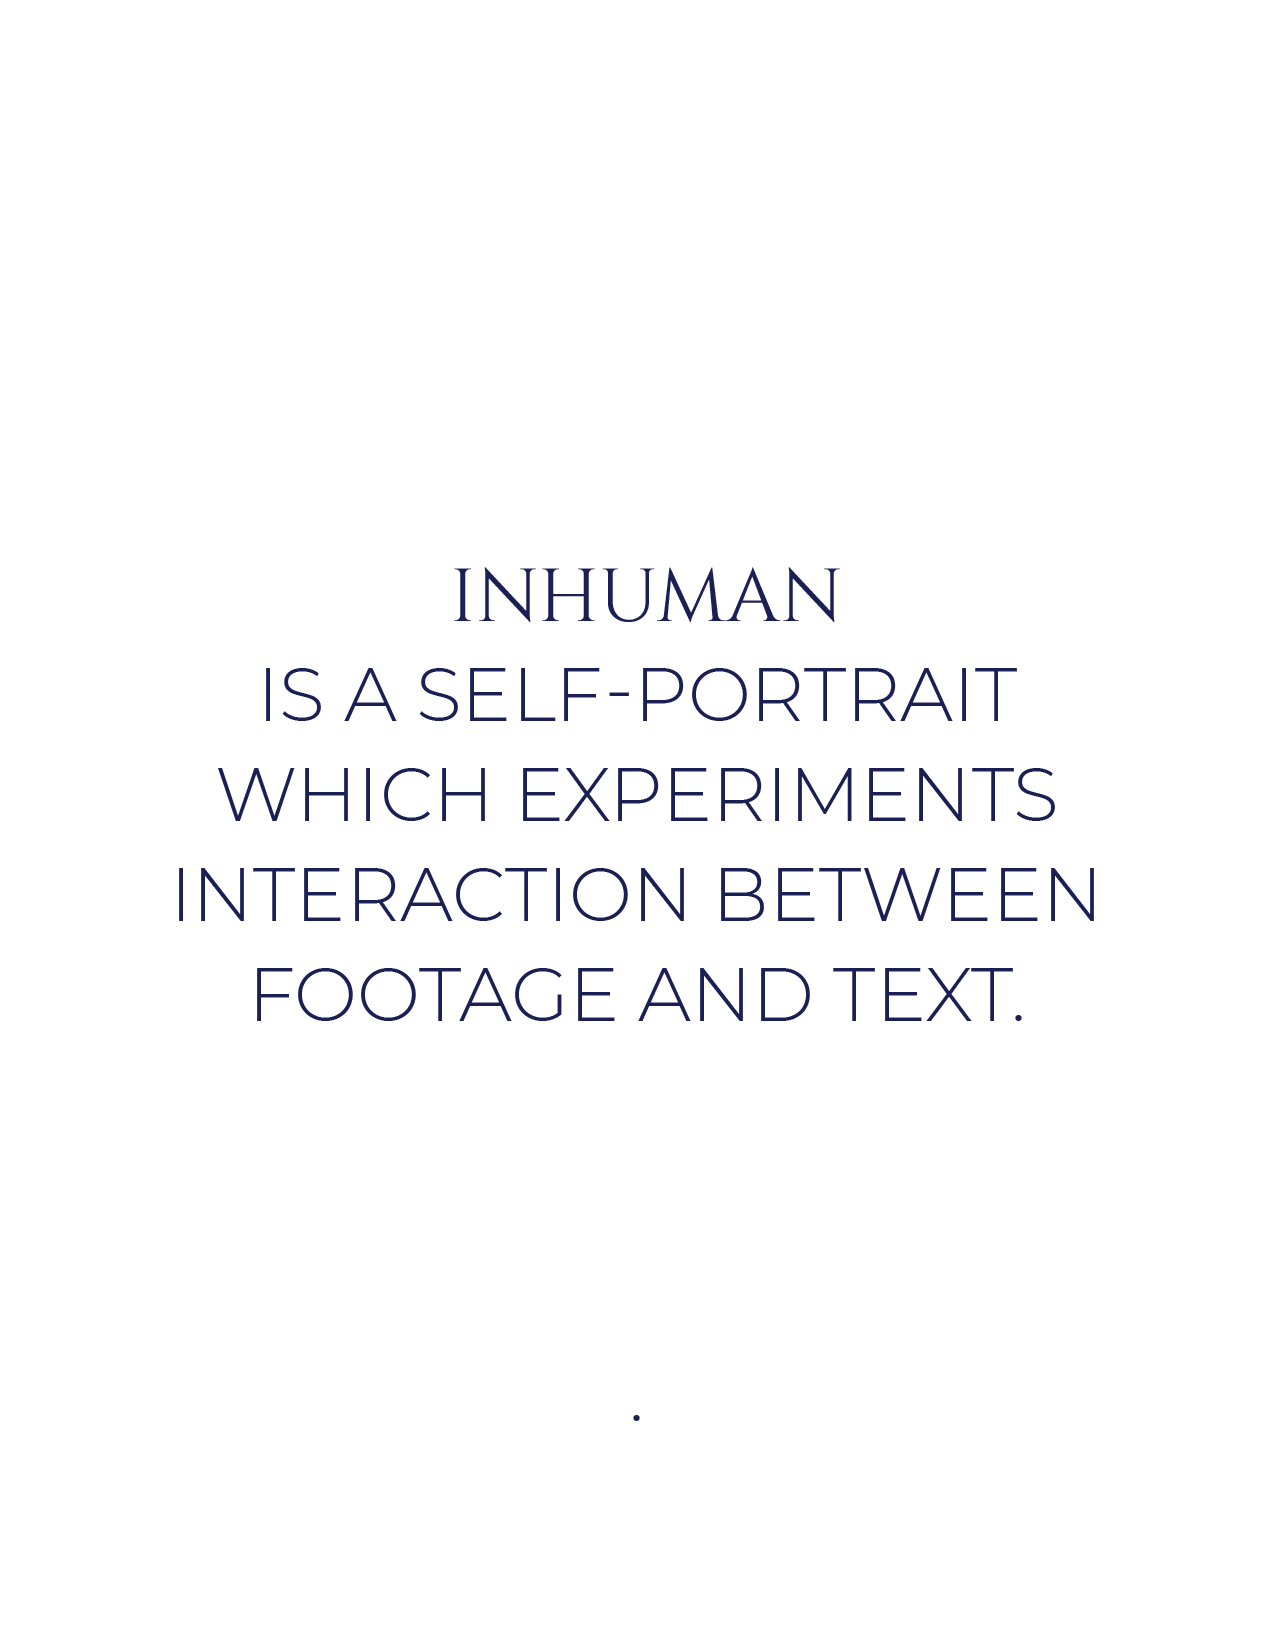
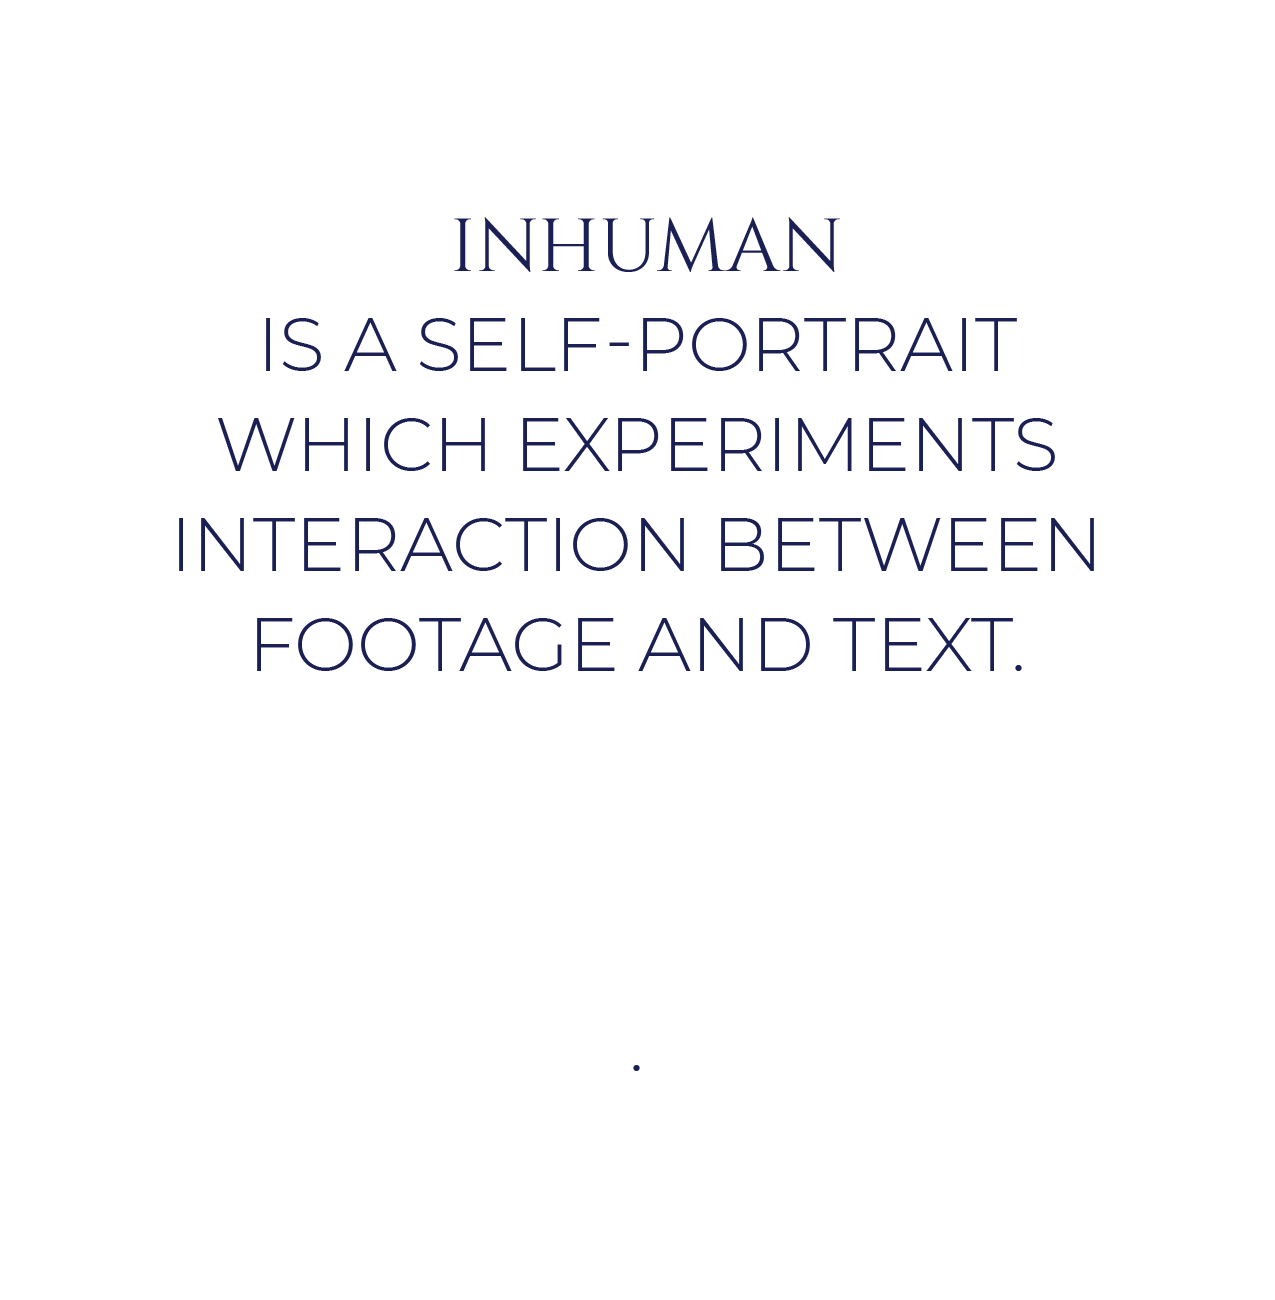
s

diff --git a/SumUp/index-1.html b/SumUp/index-1.html
@@ -14,11 +14,9 @@
 <link href="https://fonts.googleapis.com/css?family=Cinzel:400,700" rel="stylesheet">
 <link rel="preload" href="quote1.gif" as="image">
 <link rel="preload" href="quote2.gif" as="image">
-<link rel="preload" href="quote.png" as="image">
+<link rel="preload" href="orga.png" as="image">
 <link rel="preload" href="egalitarian/catalog.gif" as="image">
-<!-- <link rel="preload" href="egalitarian/NewsLetter.png" as="image">
-<link rel="preload" href="egalitarian/pooster1.png" as="image">
-<link rel="preload" href="egalitarian/pooster1.png" as="image"> -->
+
 <style>
 	body,html{
 		font-family: 'Montserrat', sans-serif;
@@ -95,8 +93,8 @@
   		display: inline-block;
 	}
 	.center{
-		height:70vh;
-  		margin-left: 3vw;
+		height:60vh;
+  		margin-left: 6vw;
   		display: inline-block;
 	}
 	iframe{
